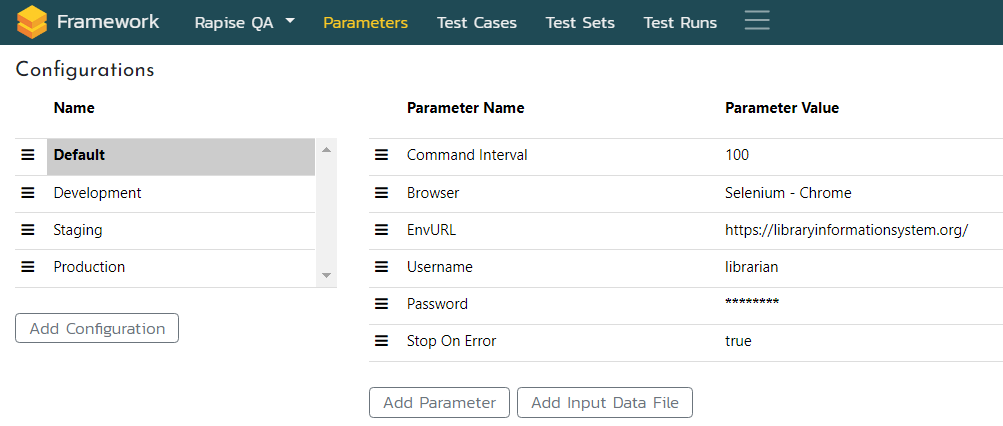
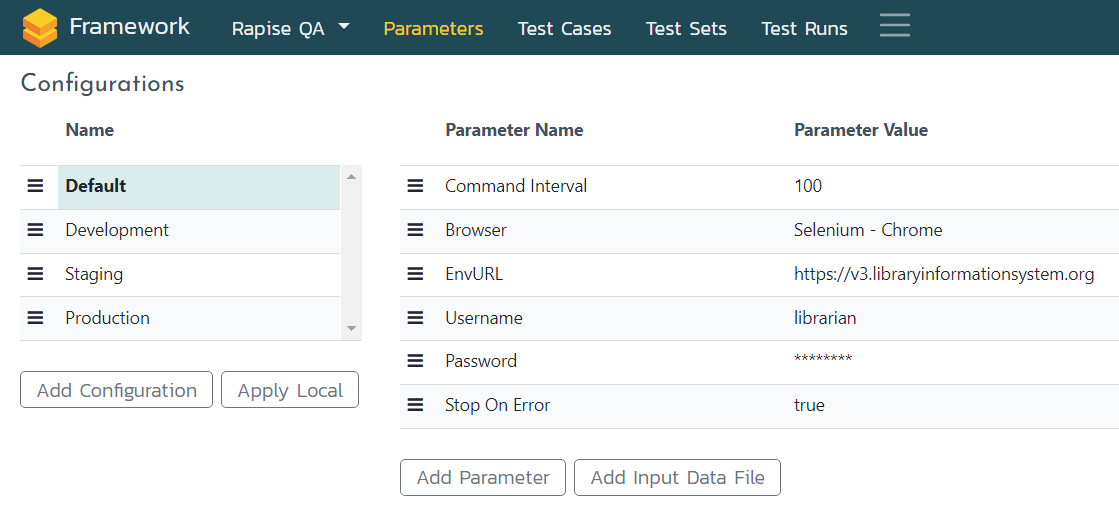
Release Notes updates for 9.0

diff --git a/docs/New/9_0.md b/docs/New/9_0.md
@@ -1,7 +1,7 @@
 # New in Rapise 9.0 (February 2026)
 
 !!! info "Summary"
-    - :material-robot-happy-outline: AI-based self-healing for Web tests [IN:12237]
+    - [:material-robot-happy-outline: AI-based self-healing for Web tests](../Guide/web_self_healing.md#self-healing) [IN:12237]
 
 		Rapise 9.0 takes the self-healing capabilities of Web testing to the next level. This version introduces the concept of SmartAction, which includes both the object description and the action intent expressed in human language. Though SmartAction is automatically recorded and translated to a working, cached standard Rapise action, it uses its embedded intelligence to automatically heal the underlying object locator in case of application updates. This is just the first step we are taking for 9.0; next 9.x versions will contain many more features built around SmartActions and AI. :rocket:
 
@@ -10,11 +10,11 @@
 
 ### Features
 
-- mTLS support for REST endpoints [IN:11836]
-- Allow setting custom test run properties via RapiseLauncher [IN:11853]
+- [mTLS support for REST endpoints](../Guide/rest_web_service.md#handling-mtls-handshake) [IN:11836]
+- [Allow setting custom test run properties via RapiseLauncher](../Libraries/Spira.md#settestruncustomproperty) [IN:11853]
 - Add Markdown highlighting support in the editor [IN:11968]
-- :material-robot-happy-outline: AI-based self-healing for Web tests [IN:12237]
-- :material-robot-happy-outline: Enable usage of **inflectra.ai** during test case playback [IN:12238]
+- [:material-robot-happy-outline: AI-based self-healing for Web tests](../Guide/web_self_healing.md#self-healing) [IN:12237]
+- [:material-robot-happy-outline: Enable usage of **inflectra.ai** with AiTester during test case playback ](../Libraries/AiTester.md#aitester) [IN:12238]
 
 ### RVL Enhancements & Improvements
 
@@ -23,13 +23,17 @@
 ### New Object API
 
 - [JComboBox.GetItemCount](../Libraries/JavaSwingComboBox.md#itemcount) [IN:12085]
+- [Spira.SetTestRunCustomProperty](../Libraries/Spira.md#settestruncustomproperty) [IN:12240]
+- [AiTester Global Object](../Libraries/AiTester.md#aitester) [IN:12242]
+- [Playwright Global Object](../Libraries/Playwright.md#playwright) [IN:12243]
 
 ### Improvements
 
-- Spira Dashboard: Added buttons to apply/reset configuration for local execution on the Parameters tab [IN:11593]
+- [Spira Dashboard: Added `Apply Local` button on the Parameters tab to set active configuration for local execution ](../Guide/spira_dashboard_2.md#parameters-view-rapise-80) [IN:11593]
 - :material-robot-happy-outline: AI Server: If parsing or pretty-printing fails, automatically query the LLM to fix the syntax error [IN:11618]
 - Allow changing file extensions via ++shift++ + Rename in the Shared section of the Object Tree [IN:11619]
-- Spira Dashboard: Added `Check/Uncheck All...` popup menu items to quickly select test cases [IN:11686]
+- If a file is opened outside the current framework, mark it's tab name with ^ [IN:11685]
+- [Spira Dashboard: Added `Check/Uncheck All...` popup menu items to quickly select test cases](../Guide/spira_dashboard_2.md#quick-actions) [IN:11686]
 - Always use NodeJS instead of cscript.exe for SeSExecutor.js [IN:11696]
 - :penguin: REST client now supports self-signed certificates on NodeExt/Linux [IN:11785]
 - Improve `Navigator.CheckObjectVisible` to probe the element at the center and corners [IN:11793]

diff --git a/docs/Libraries/Spira.md b/docs/Libraries/Spira.md
@@ -20,6 +20,7 @@ Use Spira object to communicate with Spira during playback of tests. With Spira 
 | ----------- | --------------- |
 |  [CreateIncident](#createincident) | Creates an incident in Spira. |
 |  [RunTestSet](#runtestset) | Schedules a test set to execute as soon as possible. |
+|  [SetTestRunCustomProperty](#settestruncustomproperty) | Sets a custom property for the current test run in Spira. |
 
 
 
@@ -33,7 +34,7 @@ Use Spira object to communicate with Spira during playback of tests. With Spira 
 <a name="CreateIncident"></a>    
 #### CreateIncident
 
-Creates an incident in Spira..
+Creates an incident in Spira.
 
 ```javascript
 Spira.CreateIncident(name, description, projectNameOrId)
@@ -76,7 +77,7 @@ Spira.RunTestSet(nameOrId, token, projectNameOrId, utcTime, utcDate)
 | nameOrId |  |  Name or ID of the Test Set to run. |
 | token | string |  Automation host token.<br>Optional. |
 | projectNameOrId | string |  Name or ID of a Spira project that contains the Test Set.<br>Optional. |
-| utcTime | string |  UTC time, formatted as HH:mm or HH\:mm\:ss, e.g. 16:45. Default time is current time.<br>Optional. |
+| utcTime | string |  UTC time, formatted as HH:mm or HH:mm:ss, e.g. 16:45. Default time is current time.<br>Optional. |
 | utcDate | string |  UTC date, formatted as YYYY-MM-DD, e.g. 2024-12-19. Default value is current date.<br>Optional. |
 
 
@@ -89,6 +90,37 @@ boolean: `true` if the test set scheduled successfully, otherwise - `false`.
 
 
 <a name="see.also.spira.runtestset"></a>
+
+<a name="SetTestRunCustomProperty"></a>    
+#### SetTestRunCustomProperty
+
+Sets a custom property for the current test run in Spira. 
+This function is utilized by RapiseLauncher to transmit custom data from an automated test script to the corresponding test run record in Spira.
+By using this function, you can enrich the test run results in Spira with valuable information generated during the execution of your Rapise tests.
+This data can then be used for more detailed analysis and reporting within Spira.
+
+```javascript
+Spira.SetTestRunCustomProperty(name, value)
+```
+
+
+**Parameters:**
+
+|  **Name** | **Type** | **Description** |
+| ---------- | -------- | --------------- |
+| name | string |  The name of the test run custom property as defined in Spira. This name must match an existing custom property in your Spira project. |
+| value | string \| number \| boolean |  The value to be assigned to the custom property. |
+
+
+
+
+**Returns:**
+
+boolean: Always returns true.
+
+
+
+<a name="see.also.spira.settestruncustomproperty"></a>
 
   
 

diff --git a/docs/Guide/spira_dashboard_2.md b/docs/Guide/spira_dashboard_2.md
@@ -265,6 +265,15 @@ In the `All Test Cases` view, use checkboxes to include or remove a test case. I
 
 For every test case, there is also an `Action` dropdown that allows you to `Open in Spira` the corresponding test case. The IDs on the right side of the test cases table are the IDs of corresponding test cases in `SpiraTest`.
 
+##### Quick Actions
+
+In Rapise 9.0+ to quickly add/remove test cases from a folder you may use popup menu for the folder or a nested test case:
+
+- **Check All** - include all test cases from the folder or if you clicked on a test case, from the parent folder.
+- **Uncheck All** - remove all test cases from the folder or if you clicked on a test case, from the parent folder.
+- **Check All (Recursive)** - include all test cases from the folder and all nested folders.
+- **Uncheck All (Recursive)** - remove all test cases from the folder and all nested folders.
+
 #### Sync with Spira
 
 When making changes such as creating, renaming, or deleting a test set, including or removing test cases, or reordering test cases, these actions are performed locally; to update `SpiraTest`, use the `Sync with Spira` button.
